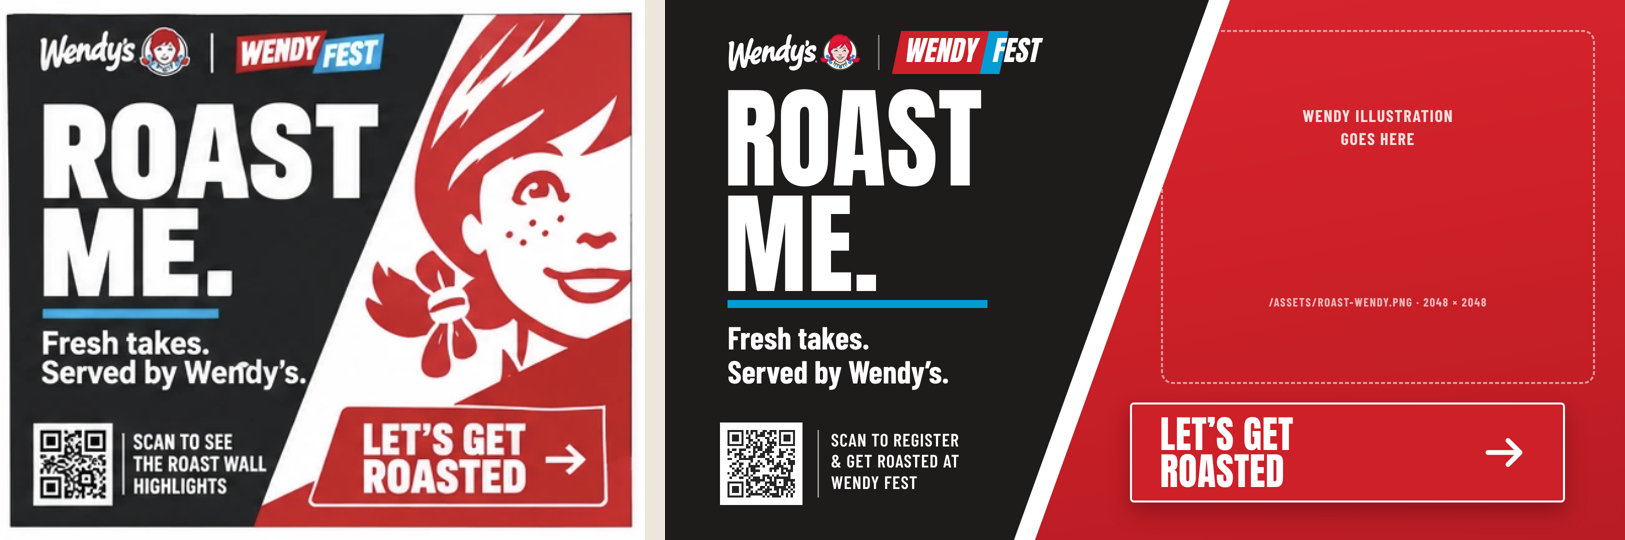
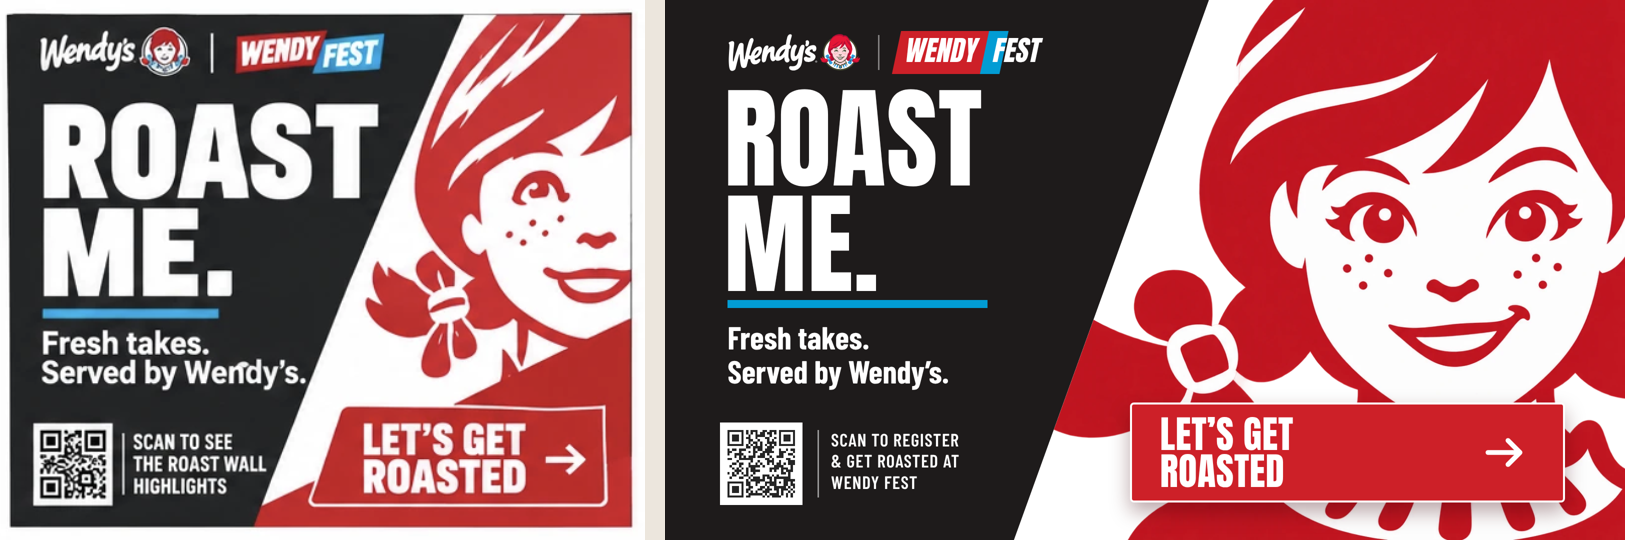
Roast Me welcome: Wendy illustration placed in the red panel on a white backing, matching the Roast Wall reference
Claude-Session: https://claude.ai/code/session_015MHPvZ3kkn8jw5YatKY7r4

Changed region(s): [[0.6154, 0.0, 1.0, 1.0], [0.8308, 0.0296, 0.9538, 0.0593], [0.8615, 0.1185, 0.8923, 0.1481]]

diff --git a/public/_design/roast-welcome.html b/public/_design/roast-welcome.html
@@ -9,8 +9,8 @@ html, body { height:100%; margin:0; overflow:hidden; background:#151313; }
 .s > * { position:absolute; }
 .panel { inset:0; background:linear-gradient(170deg, #D92530 0%, #CD2028 50%, #B81C24 100%); clip-path:polygon(calc(1130 * var(--p)) 0, calc(1920 * var(--p)) 0, calc(1920 * var(--p)) calc(1080 * var(--p)), calc(740 * var(--p)) calc(1080 * var(--p))); }
 .band { inset:0; background:#fff; clip-path:polygon(calc(1088 * var(--p)) 0, calc(1130 * var(--p)) 0, calc(740 * var(--p)) calc(1080 * var(--p)), calc(698 * var(--p)) calc(1080 * var(--p))); }
-.art { inset:0; clip-path:polygon(calc(1088 * var(--p)) 0, calc(1920 * var(--p)) 0, calc(1920 * var(--p)) calc(1080 * var(--p)), calc(698 * var(--p)) calc(1080 * var(--p))); }
-.art img { position:absolute; right:0; top:0; width:calc(1060 * var(--p)); height:calc(1000 * var(--p)); object-fit:cover; object-position:right top; }
+.art { inset:0; background:#FFFFFF; clip-path:polygon(calc(1088 * var(--p)) 0, calc(1920 * var(--p)) 0, calc(1920 * var(--p)) calc(1080 * var(--p)), calc(698 * var(--p)) calc(1080 * var(--p))); }
+.art img { position:absolute; right:0; bottom:0; width:calc(1240 * var(--p)); height:calc(1240 * var(--p)); object-fit:cover; }
 .art .ph { position:absolute; right:calc(60 * var(--p)); top:calc(60 * var(--p)); width:calc(860 * var(--p)); height:calc(700 * var(--p)); border:calc(4 * var(--p)) dashed rgba(255,255,255,.55); border-radius:calc(24 * var(--p)); display:grid; place-items:center; text-align:center; font:700 calc(34 * var(--p))/1.35 'Barlow Condensed', sans-serif; letter-spacing:.06em; text-transform:uppercase; color:rgba(255,255,255,.85); }
 .logo { left:calc(125 * var(--p)); top:calc(62 * var(--p)); display:flex; align-items:center; gap:calc(34 * var(--p)); }
 .logo img { height:calc(78 * var(--p)); } .logo i { width:calc(3 * var(--p)); height:calc(70 * var(--p)); background:rgba(255,255,255,.45); }
@@ -28,7 +28,7 @@ html, body { height:100%; margin:0; overflow:hidden; background:#151313; }
 .cta svg { width:calc(96 * var(--p)); height:calc(96 * var(--p)); }
 </style></head><body><div class="wrap"><div class="s">
   <div class="panel"></div><div class="band"></div>
-  <div class="art"><img src="/assets/roast-wendy.png" alt="" onerror="this.remove()"><div class="ph">Wendy illustration<br>goes here<br><small style="font-size:.7em;opacity:.8">/assets/roast-wendy.png · 2048 × 2048</small></div></div>
+  <div class="art"><img src="/assets/roast-wendy.png" alt="" onload="this.nextElementSibling && this.nextElementSibling.remove()" onerror="this.remove()"><div class="ph">Wendy illustration<br>goes here<br><small style="font-size:.7em;opacity:.8">/assets/roast-wendy.png · 2048 × 2048</small></div></div>
   <div class="logo"><img src="/assets/wendys-horiz-white.svg" alt="Wendy's"><i></i><span class="wf"><b>Wendy</b><i>Fest</i></span></div>
   <div class="title">Roast<br>Me.</div>
   <i class="bar"></i>
